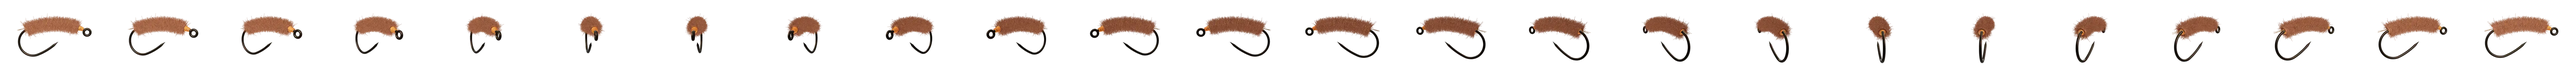
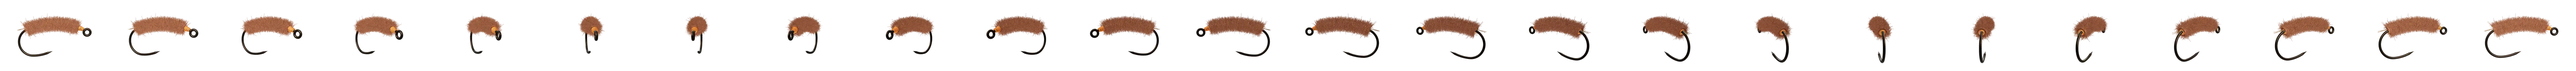
Curved hooks: the bend turns until the point runs parallel to the hook's axis, as on a TMC 2457 or 2487, instead of curling back towards the eye; shorter points on scud and emerger hooks (Czech Nymph, Zebra Midge, Gammarus, Kobberbassen, Klinkhamer, Stimulator)

diff --git a/src/tying/shank.ts b/src/tying/shank.ts
@@ -75,22 +75,25 @@ export function bendPath(hook: HookModel, step = 0.02): Vec2[] {
   const points: Vec2[] = [];
   // A tube or Waddington has no bend of its own: the treble behind it is drawn separately.
   if (hook.tube) return points;
-  // The bend: a half circle continuing the shank's curve, so the gape (inside of
-  // shank to inside of point) is one unit.
+  // The bend: an arc continuing the shank's curve, of a radius that makes the gape (inside
+  // of shank to inside of point) one unit on a straight shank. It turns until the point runs
+  // parallel to the hook's axis (eye to bend), as on real hooks: a half circle on a straight
+  // shank, less on a curved one, whose rear already slopes down into the bend.
   const start = shankAt(hook, 0);
   const R = (1 + 2 * hook.wireRadius) / 2;
   const back = Math.atan2(-start.t.y, -start.t.x);
+  const sweep = Math.PI - Math.atan2(start.t.y, start.t.x);
   // Centre of the bend lies to the left of travel when heading back (i.e. below the shank).
   const cx = start.p.x + R * Math.cos(back + Math.PI / 2);
   const cy = start.p.y + R * Math.sin(back + Math.PI / 2);
-  const steps = Math.ceil((Math.PI * R) / step);
+  const steps = Math.ceil((sweep * R) / step);
   for (let i = 0; i <= steps; i++) {
-    const a = back - Math.PI / 2 + (Math.PI * i) / steps;
+    const a = back - Math.PI / 2 + (sweep * i) / steps;
     points.push({ x: cx + R * Math.cos(a), y: cy + R * Math.sin(a) });
   }
   // The point section, rising slightly towards the shank.
   const end = points[points.length - 1]!;
-  const dir = back + Math.PI;
+  const dir = back + sweep;
   const rise = 0.12;
   const n = Math.ceil(hook.pointLength / step);
   for (let i = 1; i <= n; i++) {

diff --git a/src/tying/hook.ts b/src/tying/hook.ts
@@ -61,12 +61,12 @@ export const HOOK_MODELS: Record<HookModelId, HookModel> = {
   },
   "emerger-curved": {
     label: "Curved emerger hook",
-    shankLength: 2.3, shankCurve: 45, wireRadius: 0.045, eyeRadius: 0.17, eyeAngle: 20, pointLength: 0.75,
+    shankLength: 2.3, shankCurve: 45, wireRadius: 0.045, eyeRadius: 0.17, eyeAngle: 20, pointLength: 0.6,
     example: "Partridge 15BN Klinkhamer",
   },
   "scud-curved": {
     label: "Curved scud and pupa hook",
-    shankLength: 1.9, shankCurve: 75, wireRadius: 0.055, eyeRadius: 0.17, eyeAngle: 15, pointLength: 0.75,
+    shankLength: 1.9, shankCurve: 75, wireRadius: 0.055, eyeRadius: 0.17, eyeAngle: 15, pointLength: 0.5,
     example: "TMC 2457",
   },
   "salmon-up-eye": {
